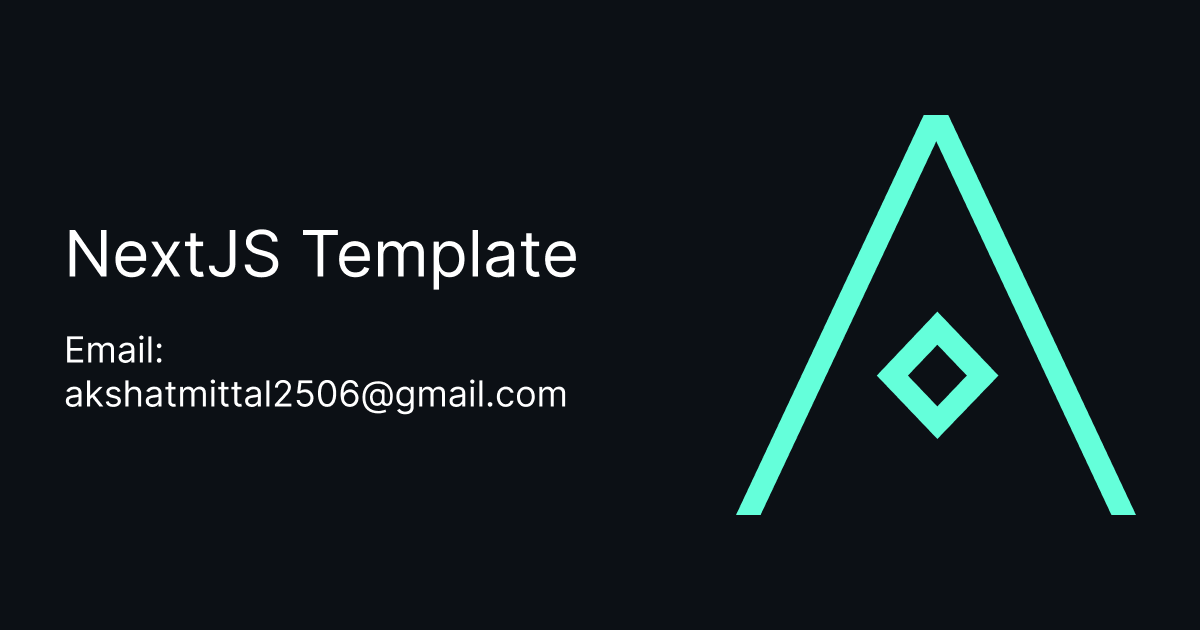
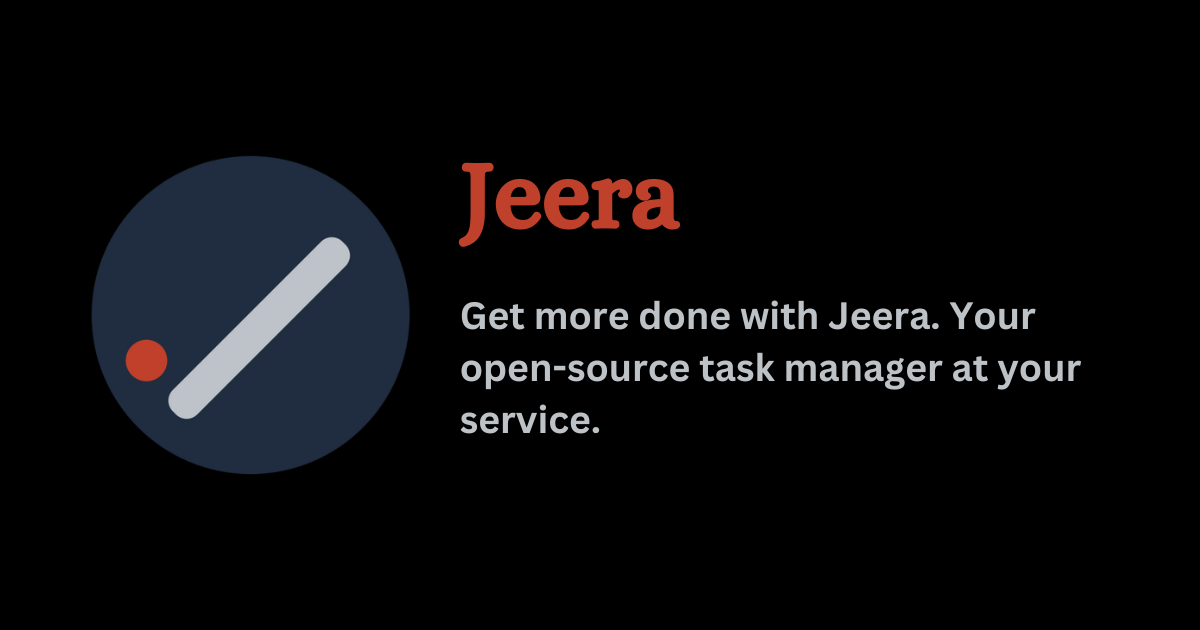
feat: rebranding

Changed region(s): [[0.0308, 0.181, 0.9558, 0.8143]]

diff --git a/styles/config/_theme.scss b/styles/config/_theme.scss
@@ -3,13 +3,19 @@
 :root::after {
 	--transition-time: 0.3s;
 
-	--font-poppins: Poppins, system-ui, -apple-system, BlinkMacSystemFont,
-		"Segoe UI", Roboto, "Helvetica Neue", Arial, sans-serif;
-	--font-montserrat: "Montserrat", system-ui, -apple-system,
-		BlinkMacSystemFont, "Segoe UI", Roboto, "Helvetica Neue", Arial,
-		sans-serif;
+	--font-poppins:
+		Poppins, system-ui, -apple-system, BlinkMacSystemFont, "Segoe UI",
+		Roboto, "Helvetica Neue", Arial, sans-serif;
+	--font-montserrat:
+		"Montserrat", system-ui, -apple-system, BlinkMacSystemFont, "Segoe UI",
+		Roboto, "Helvetica Neue", Arial, sans-serif;
+
+	--theme-purple: #202df0;
+	--theme-red: #bf402b;
+	--theme-grey: #bdc2c7;
 
 	--accent-color: #3f51b5;
+
 	--theme-bg: #fff;
 	--theme-fg: var(--accent-color);
 }

diff --git a/constants/seo.tsx b/constants/seo.tsx
@@ -2,9 +2,9 @@ import { SeoProps } from "@/types";
 import { frontendBaseUrl } from "./variables";
 
 export class AppSeo {
-	static title: SeoProps["title"] = "NextJS Boilerplate";
+	static title: SeoProps["title"] = "Jeera";
 	static description: SeoProps["description"] =
-		"NextJS Boilerplate with TypeScript, ESLint, Prettier, SASS, Tailwind, and more.";
+		"Get more done with Jeera. An AI powered todo app.";
 	static image: SeoProps["image"] = `${frontendBaseUrl}/og-image.png`;
 	static canonical: SeoProps["canonical"] = frontendBaseUrl;
 	static author: SeoProps["author"];

diff --git a/config/variables.ts b/config/variables.ts
@@ -13,7 +13,7 @@ export const url: Record<T_URL, string> = {
 export const nodeEnv: T_NODE_ENV =
 	process.env.NODE_ENV || process.env.NEXT_PUBLIC_NODE_ENV || "production";
 
-export const service = process.env.NEXT_PUBLIC_SERVICE || "template";
+export const service = process.env.NEXT_PUBLIC_SERVICE || "jeera";
 
 export const enableDebugging: boolean =
 	process.env.NEXT_PUBLIC_ENABLE_DEBUGGING === "true" || false;

diff --git a/CONTRIBUTING.md b/CONTRIBUTING.md
@@ -1,6 +1,6 @@
-# Contributing to Next TS Full Stack Template
+# Contributing to Jeera
 
-Loving the Next TS Full Stack Template, and want to be a part of team?
+Loving the Jeera, and want to be a part of team?
 
 We love your input! We want to make contributing to this project as easy and transparent as possible, whether it's:
 
